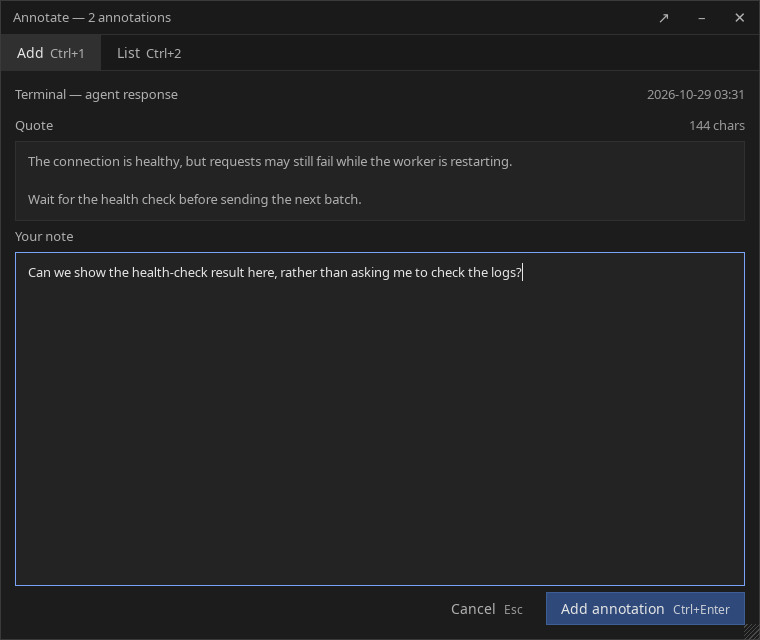
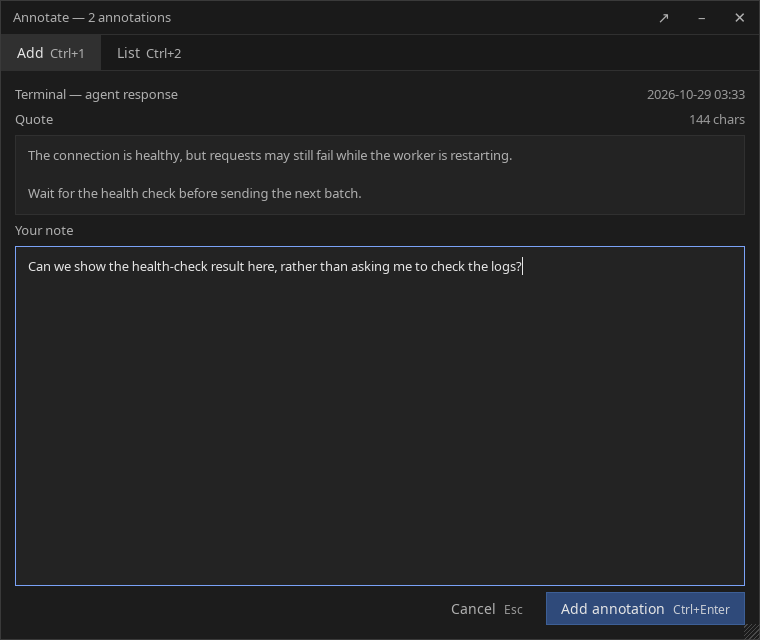
Remove the hidden single-source picker row
Honor the picker row hidden attribute despite its flex display rule. Verify in native WebKit that the entire single-source row is absent rather than leaving an empty flex gap.

All 102 tests pass and audit-ui passes at 640px/760px; refresh the native screenshots.

Changed region(s): [[0.0303, 0.1875, 0.6658, 0.3438], [0.0, 0.3438, 0.6961, 0.4375], [0.9079, 0.1875, 0.9684, 0.2188]]

diff --git a/desktop_annotator/ui/index.html b/desktop_annotator/ui/index.html
@@ -33,6 +33,7 @@
   .meta .src{min-width:0;white-space:nowrap;overflow:hidden;text-overflow:ellipsis}
   .meta .stamp{margin-left:auto;color:var(--faint);font-size:13px;white-space:nowrap}
   .pick{display:flex;gap:6px;align-items:center;flex:none}
+  .pick[hidden]{display:none}
   #chips{min-width:0;flex-wrap:wrap}
   .chip{font-size:14px;padding:3px 10px;border:1px solid var(--line);background:transparent;
         color:var(--faint);cursor:pointer;font-family:inherit}

diff --git a/tests/test_webview_live.py b/tests/test_webview_live.py
@@ -56,6 +56,7 @@ with tempfile.TemporaryDirectory() as tmp:
     assert js("return document.querySelector('label[for=quote]').textContent") == 'Quote'
     assert js("return document.querySelector('label[for=comment]').textContent") == 'Your note'
     assert not js("return !!$('chips').getClientRects().length")
+    assert not js("return !!$('chips').parentElement.getClientRects().length")
     # A cleared quote must retain a caret target after filtering and be repairable.
     js("showPane('list'); const q=document.querySelector('.q'); doc.focus(); const range=document.createRange(); range.selectNodeContents(q); const selection=getSelection(); selection.removeAllRanges(); selection.addRange(range); document.execCommand('delete'); $('filter').value='newer'; $('filter').dispatchEvent(new Event('input')); $('filter').value=''; $('filter').dispatchEvent(new Event('input')); return true")
     assert js("return document.querySelector('.q').getBoundingClientRect().height") > 0
